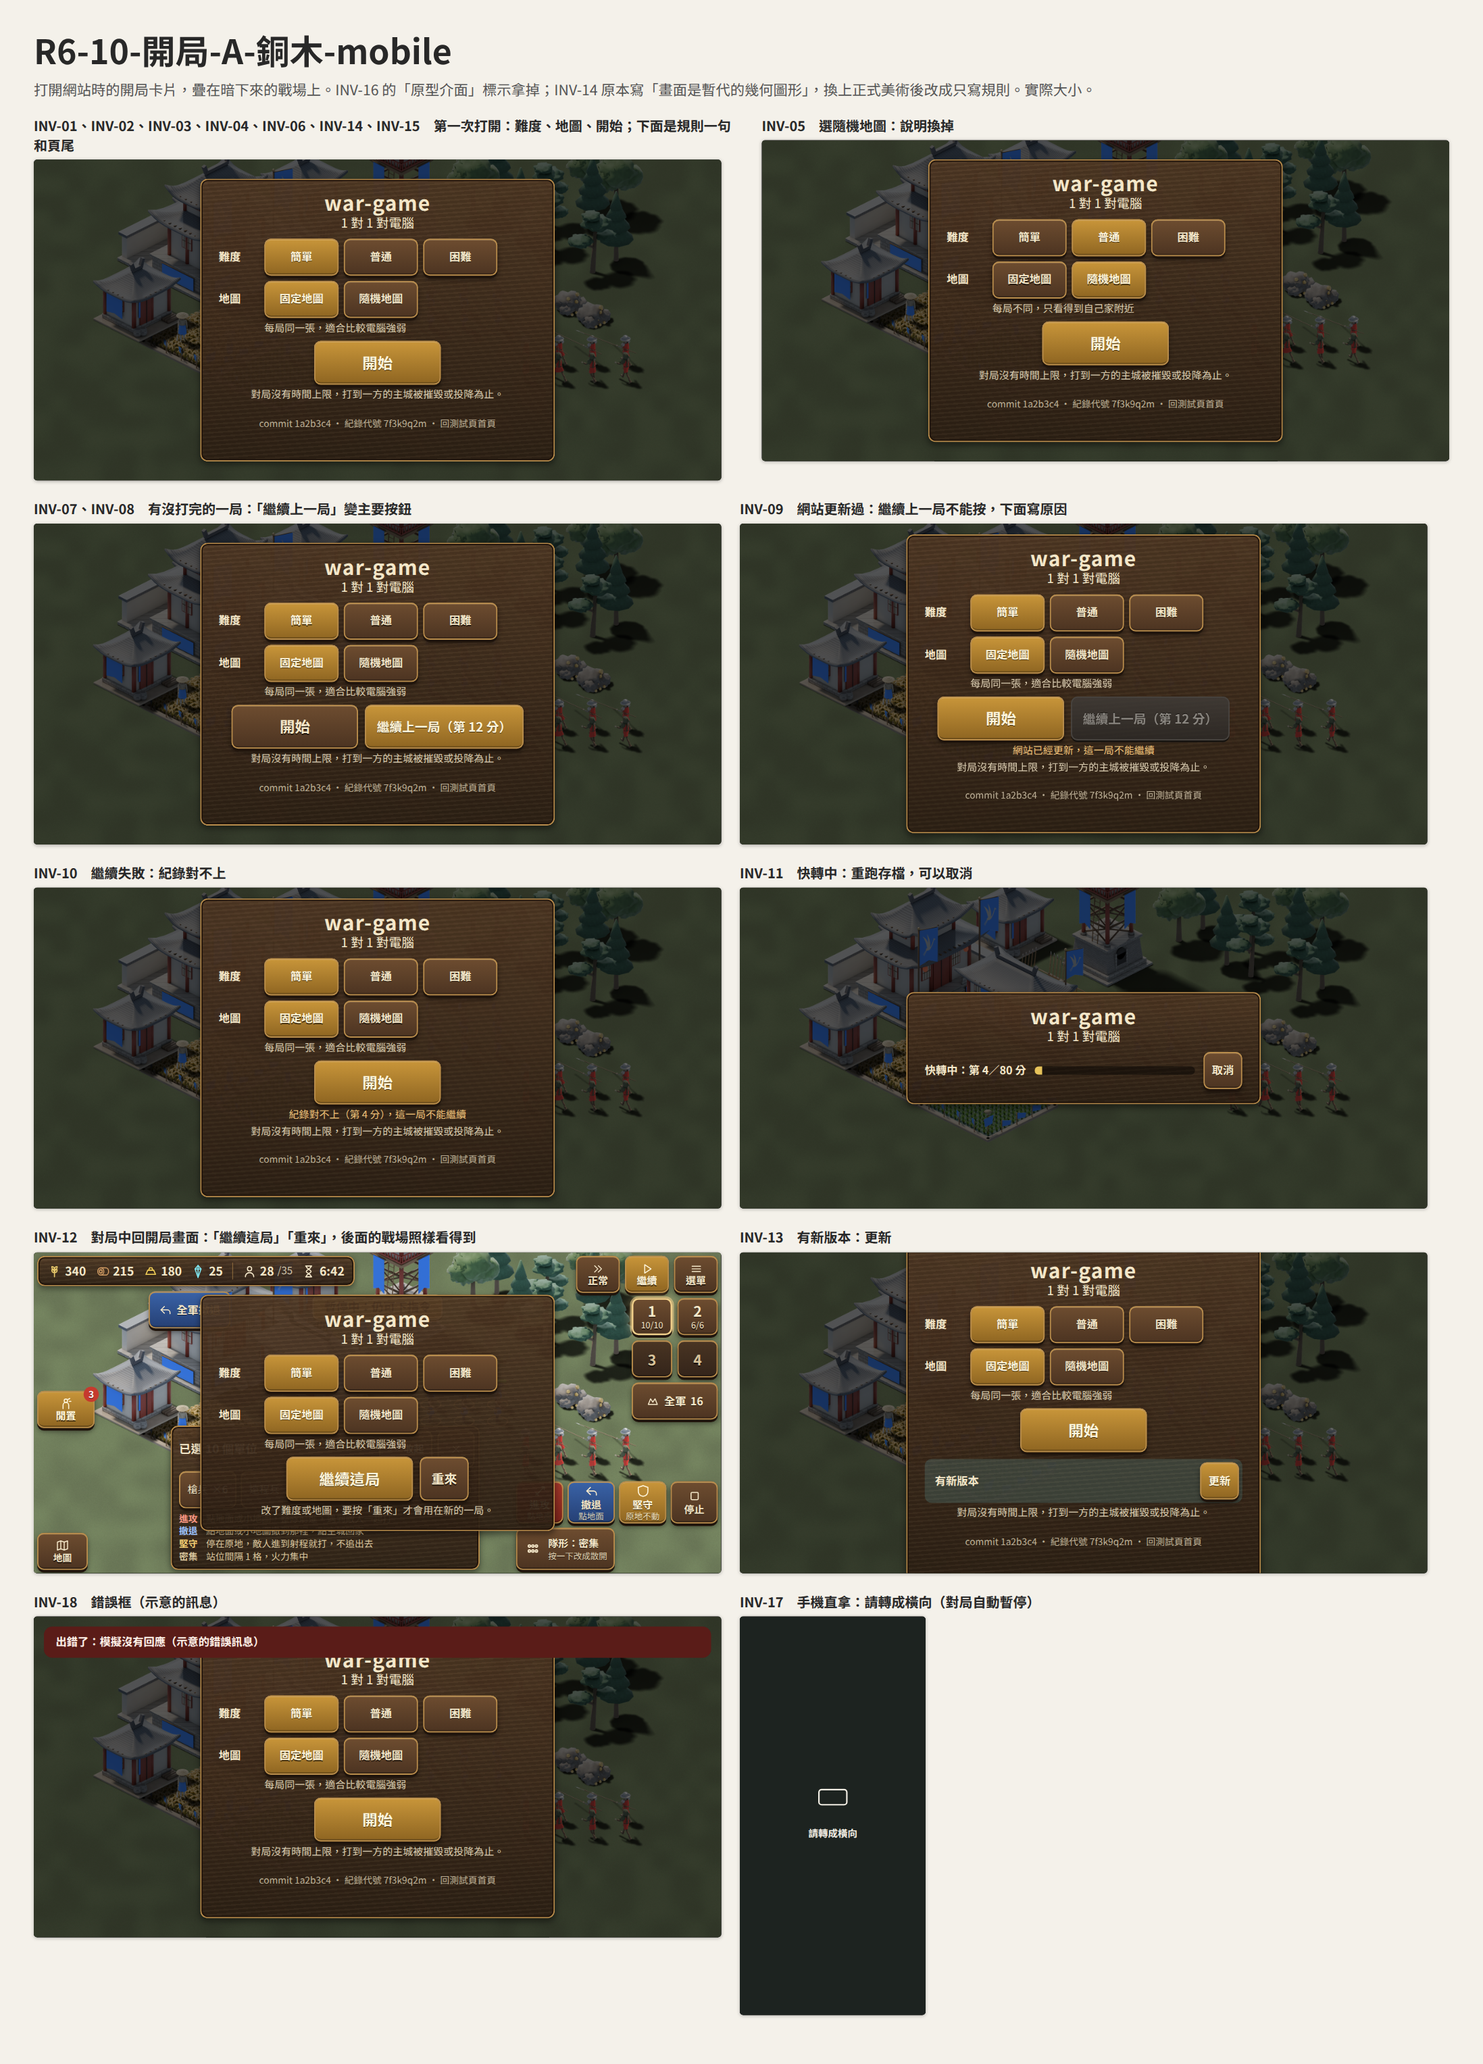
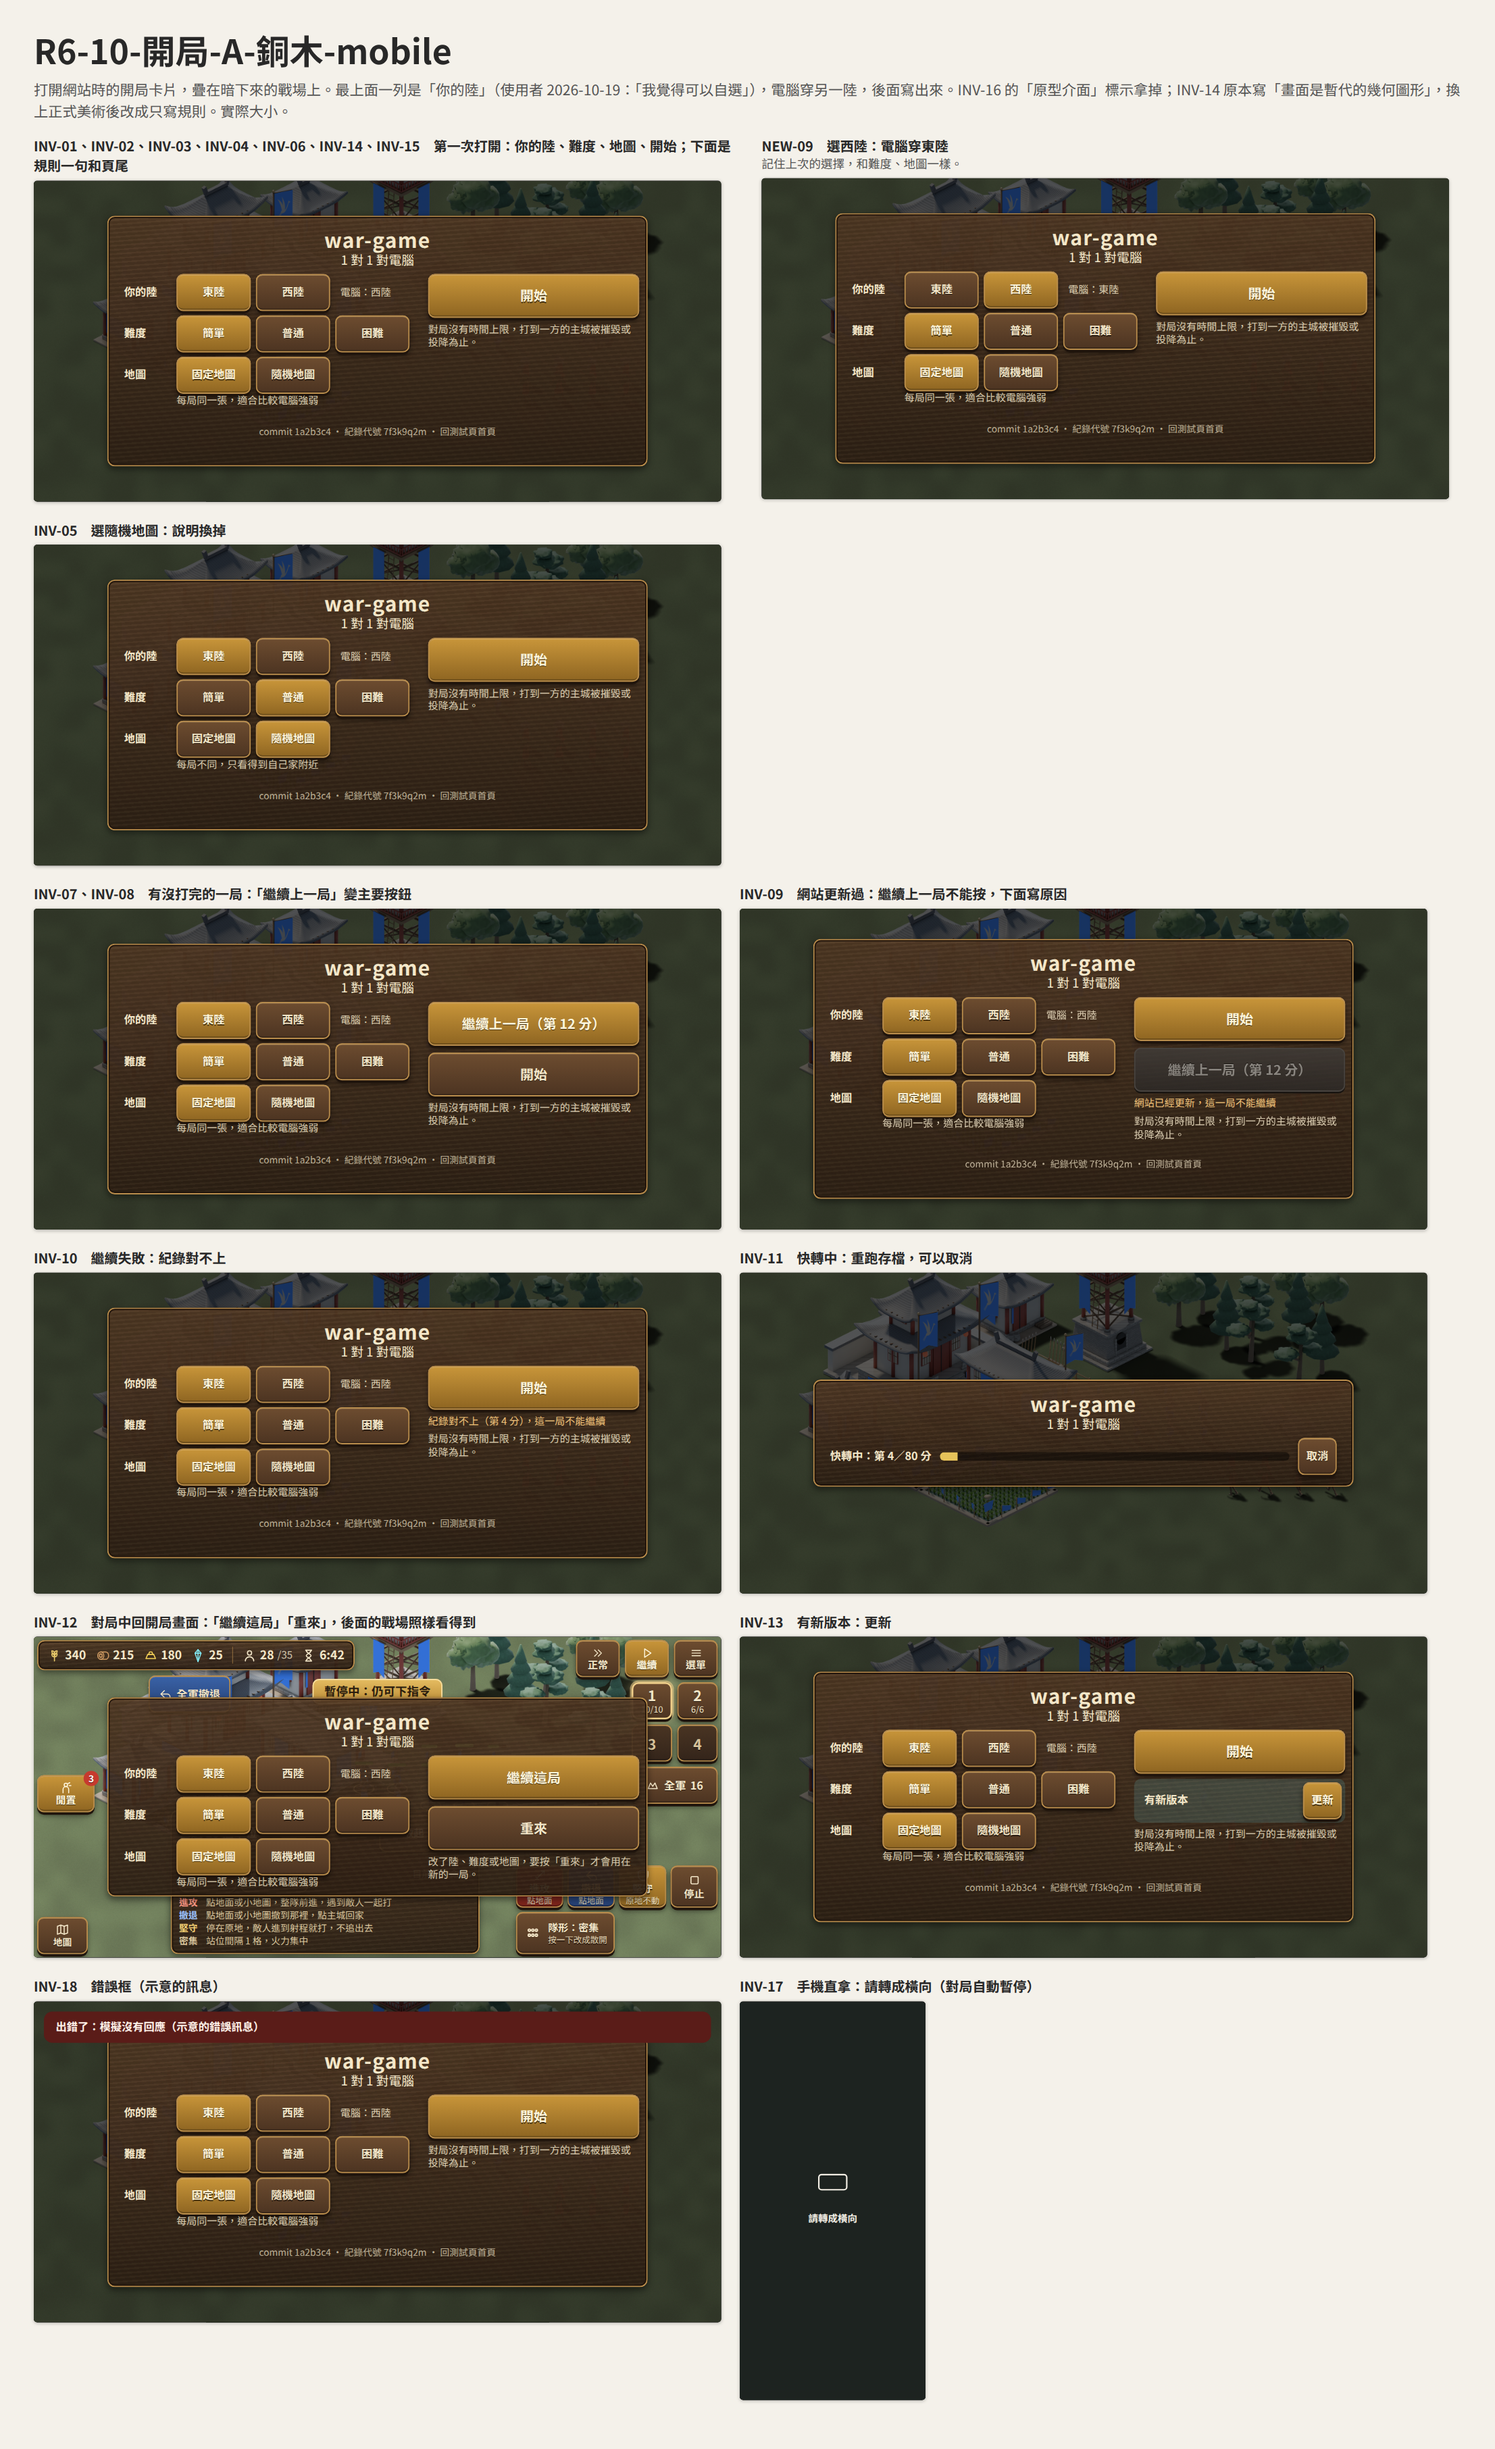
R6-10 開局加「你的陸：東陸／西陸」（使用者 2026-10-19：「我覺得可以自選」），電腦穿另一陸
- 開局卡片改成兩欄（左：你的陸、難度、地圖；右：開始、繼續上一局、說明），多一列以後所有狀態仍在 380 pt 裡
  （原本單欄加一列，有新版本、不能繼續時會超出畫面）。
- 新狀態 NEW-09（選西陸）；R6-10 A、B，R6-43，R6-40 裡的開局卡片重拍；spec、總覽跟著更新。

diff --git a/design/r6/mock/states.js b/design/r6/mock/states.js
@@ -234,22 +234,32 @@
     <tr><th>城鎮（搶／治理）</th><td>1／1</td><td>0／1</td></tr></table>` + btns(B("回開局畫面", { cls: "sec" }), B("重來", { cls: "pri" })), `result ${won ? "won" : ""}`);
   Object.assign(S, { "INV-129": { ...NOSEL, dialog: result("失敗", false) }, "INV-130": { ...NOSEL, dialog: result("勝利", true) }, "INV-131": { ...NOSEL, dialog: result("平手", false) } });
   // ----- R6-10 開局
-  const opts = (diff, map) => `<div class="opts"><span class="k">難度</span><div class="row">${["簡單", "普通", "困難"].map((d) => B(d, { cls: d === diff ? "pri" : "sec" })).join("")}</div>
+  // 你的陸 (the user 2026-10-19: 「我覺得可以自選」): the computer plays the other side
+  const opts = (diff, map, side = "東陸") => `<div class="opts"><span class="k">你的陸</span><div class="row">${["東陸", "西陸"].map((d) => B(d, { cls: d === side ? "pri" : "sec" })).join("")}<span class="aside">電腦：${side === "東陸" ? "西陸" : "東陸"}</span></div>
+    <span class="k">難度</span><div class="row">${["簡單", "普通", "困難"].map((d) => B(d, { cls: d === diff ? "pri" : "sec" })).join("")}</div>
     <span class="k">地圖</span><div class="row">${["固定地圖", "隨機地圖"].map((d) => B(d, { cls: d === map ? "pri" : "sec" })).join("")}</div></div>
     <p class="desc">${map === "固定地圖" ? "每局同一張，適合比較電腦強弱" : "每局不同，只看得到自己家附近"}</p>`;
-  const foot = `<p class="note">對局沒有時間上限，打到一方的主城被摧毀或投降為止。</p><p class="foot">commit 1a2b3c4 · 紀錄代號 7f3k9q2m · <a>回測試頁首頁</a></p>`;
+  // the start card in two columns (options left, the start buttons right), so it keeps within the 380 pt screen
+  // with the third row 你的陸 (2026-10-19)
+  const note = `<p class="note">對局沒有時間上限，打到一方的主城被摧毀或投降為止。</p>`;
+  const foot = `<p class="foot">commit 1a2b3c4 · 紀錄代號 7f3k9q2m · <a>回測試頁首頁</a></p>`;
+  const card = ({ side = "東陸", diff = "簡單", map = "固定地圖", go, extra = "", noFoot = false }) =>
+    `<div class="cols"><div class="lcol">${opts(diff, map, side)}</div><div class="rcol"><div class="go">${go}</div>${extra}${noFoot ? "" : note}</div></div>${noFoot ? "" : foot}`;
   const START = { only: ["field", "start", "portrait", "error"], field: "field-THEME-plain" };
+  const GO = B("開始", { cls: "pri big" });
   Object.assign(S, {
-    "INV-01": { ...START, start: { dim: true, html: opts("簡單", "固定地圖") + `<div class="go">${B("開始", { cls: "pri big" })}</div>` + foot } },
-    "INV-05": { ...START, start: { dim: true, html: opts("普通", "隨機地圖") + `<div class="go">${B("開始", { cls: "pri big" })}</div>` + foot } },
-    "INV-07": { ...START, start: { dim: true, html: opts("簡單", "固定地圖") + `<div class="go">${B("開始", { cls: "sec big" })}${B("繼續上一局（第 12 分）", { cls: "pri cont" })}</div>` + foot } },
-    "INV-09": { ...START, start: { dim: true, html: opts("簡單", "固定地圖") + `<div class="go">${B("開始", { cls: "pri big" })}${B("繼續上一局（第 12 分）", { cls: "sec cont", state: "disabled" })}</div><p class="why">網站已經更新，這一局不能繼續</p>` + foot } },
-    "INV-10": { ...START, start: { dim: true, html: opts("簡單", "固定地圖") + `<div class="go">${B("開始", { cls: "pri big" })}</div><p class="why">紀錄對不上（第 4 分），這一局不能繼續</p>` + foot } },
+    "INV-01": { ...START, start: { dim: true, html: card({ go: GO }) } },
+    "INV-05": { ...START, start: { dim: true, html: card({ diff: "普通", map: "隨機地圖", go: GO }) } },
+    "NEW-09": { ...START, start: { dim: true, html: card({ side: "西陸", go: GO }) } },
+    "INV-07": { ...START, start: { dim: true, html: card({ go: B("繼續上一局（第 12 分）", { cls: "pri big" }) + B("開始", { cls: "sec big" }) }) } },
+    "INV-09": { ...START, start: { dim: true, html: card({ go: GO + B("繼續上一局（第 12 分）", { cls: "sec big", state: "disabled" }), extra: `<p class="why">網站已經更新，這一局不能繼續</p>` }) } },
+    "INV-10": { ...START, start: { dim: true, html: card({ go: GO, extra: `<p class="why">紀錄對不上（第 4 分），這一局不能繼續</p>` }) } },
     "INV-11": { ...START, start: { dim: true, html: `<div class="ff"><b>快轉中：第 4／80 分</b><span class="track"><i></i></span>${B("取消", { cls: "sec" })}</div>` } },
-    "INV-12": { only: null, top: { paused: true }, start: { dim: false, html: opts("簡單", "固定地圖") + `<div class="go">${B("繼續這局", { cls: "pri big" })}${B("重來", { cls: "sec cont" })}</div><p class="note">改了難度或地圖，要按「重來」才會用在新的一局。</p>` } },
-    "INV-13": { ...START, start: { dim: true, html: opts("簡單", "固定地圖") + `<div class="go">${B("開始", { cls: "pri big" })}</div><div class="update">有新版本${B("更新", { cls: "pri" })}</div>` + foot } },
+    "INV-12": { only: null, top: { paused: true }, start: { dim: false, html: card({ go: B("繼續這局", { cls: "pri big" }) + B("重來", { cls: "sec big" }),
+      extra: `<p class="note">改了陸、難度或地圖，要按「重來」才會用在新的一局。</p>`, noFoot: true }) } },
+    "INV-13": { ...START, start: { dim: true, html: card({ go: GO, extra: `<div class="update">有新版本${B("更新", { cls: "pri" })}</div>` }) } },
     "INV-17": { only: ["portrait"], portrait: true },
-    "INV-18": { ...START, start: { dim: true, html: opts("簡單", "固定地圖") + `<div class="go">${B("開始", { cls: "pri big" })}</div>` + foot }, error: "出錯了：模擬沒有回應（示意的錯誤訊息）" },
+    "INV-18": { ...START, start: { dim: true, html: card({ go: GO }) }, error: "出錯了：模擬沒有回應（示意的錯誤訊息）" },
   });
   // ----- R6-23 戰場世界介面（遊戲畫在戰場上的，A、B 一樣）
   const WF = { hp: false, sel: null, cmds: "none", field: "field-THEME-world", left: { idle: 0, map: "closed" } };

diff --git a/design/r6/mock/boards.js b/design/r6/mock/boards.js
@@ -151,8 +151,9 @@ Object.assign(window.R6_BOARDS, {
     sub: "一局結束：勝利（金色）、失敗、平手（只有量測局 30 分鐘到才會有），加雙方的數字。勝負畫面沒有關閉鈕，只能重來或回開局畫面。實際大小。",
     rows: [[F("INV-130", ["INV-130"], "勝利"), F("INV-129", ["INV-129"], "失敗")], [F("INV-131", ["INV-131"], "平手")]] },
   "R6-10": { id: "R6-10", name: "開局",
-    sub: "打開網站時的開局卡片，疊在暗下來的戰場上。INV-16 的「原型介面」標示拿掉；INV-14 原本寫「畫面是暫代的幾何圖形」，換上正式美術後改成只寫規則。實際大小。",
-    rows: [[F("INV-01", ["INV-01", "INV-02", "INV-03", "INV-04", "INV-06", "INV-14", "INV-15"], "第一次打開：難度、地圖、開始；下面是規則一句和頁尾"), F("INV-05", ["INV-05"], "選隨機地圖：說明換掉")],
+    sub: "打開網站時的開局卡片，疊在暗下來的戰場上。最上面一列是「你的陸」（使用者 2026-10-19：「我覺得可以自選」），電腦穿另一陸，後面寫出來。INV-16 的「原型介面」標示拿掉；INV-14 原本寫「畫面是暫代的幾何圖形」，換上正式美術後改成只寫規則。實際大小。",
+    rows: [[F("INV-01", ["INV-01", "INV-02", "INV-03", "INV-04", "INV-06", "INV-14", "INV-15"], "第一次打開：你的陸、難度、地圖、開始；下面是規則一句和頁尾"), F("NEW-09", ["NEW-09"], "選西陸：電腦穿東陸", "記住上次的選擇，和難度、地圖一樣。")],
+      [F("INV-05", ["INV-05"], "選隨機地圖：說明換掉")],
       [F("INV-07", ["INV-07", "INV-08"], "有沒打完的一局：「繼續上一局」變主要按鈕"), F("INV-09", ["INV-09"], "網站更新過：繼續上一局不能按，下面寫原因")],
       [F("INV-10", ["INV-10"], "繼續失敗：紀錄對不上"), F("INV-11", ["INV-11"], "快轉中：重跑存檔，可以取消")],
       [F("INV-12", ["INV-12"], "對局中回開局畫面：「繼續這局」「重來」，後面的戰場照樣看得到"), F("INV-13", ["INV-13"], "有新版本：更新")],
@@ -194,6 +195,6 @@ Object.assign(window.R6_BOARDS, {
     sub: "攻下小鎮的對話框，A 和 B 並排。1 pt = 1.5 px。",
     rows: [[{ state: "INV-122", inv: ["INV-122"], cap: "A 銅木", theme: "a", zoom: 1.5 }, { state: "INV-122", inv: ["INV-122"], cap: "B 墨漆金線", theme: "b", zoom: 1.5 }]] },
   "R6-43": { id: "R6-43", name: "開局代表畫面", both: true,
-    sub: "開局畫面，A 和 B 並排。1 pt = 1.5 px。",
+    sub: "開局畫面（含「你的陸」），A 和 B 並排。1 pt = 1.5 px。",
     rows: [[{ state: "INV-01", inv: ["INV-01"], cap: "A 銅木", theme: "a", zoom: 1.5 }, { state: "INV-01", inv: ["INV-01"], cap: "B 墨漆金線", theme: "b", zoom: 1.5 }]] },
 });

diff --git a/design/r6/mock/ui.css b/design/r6/mock/ui.css
@@ -239,3 +239,23 @@
 /* R6-04: the square minimap of a square map, in a framed panel */
 .screen > .minimap.sqmap { width: 112px; height: 112px; padding: 4px; filter: none; }
 .screen > .minimap.sqmap img { border-radius: 4px; }
+
+/* 你的陸 (the user 2026-10-19): a third row on the start card; the card keeps within the 380 pt screen */
+.start .opts .k { white-space: nowrap; }
+.start .opts { grid-template-columns: 52px 1fr; gap: 5px 10px; }
+.start .opts .aside { align-self: center; margin-left: 6px; font-size: 12px; opacity: .85; white-space: nowrap; }
+.start .desc { margin: 0 0 2px 62px; }
+.start .lead { margin: 0 0 4px; }
+.start .go { margin: 6px 0 2px; }
+.start .note { margin: 2px 0; }
+
+/* the two-column start card */
+.screen > .start { width: 640px; padding: 12px 20px 8px; }
+.start .cols { display: grid; grid-template-columns: 1fr 250px; column-gap: 22px; align-items: start; margin-top: 6px; }
+.start .lcol .opts { margin: 0; }
+.start .rcol { display: flex; flex-direction: column; gap: 6px; }
+.start .rcol .go { flex-direction: column; align-items: stretch; margin: 0; gap: 8px; }
+.start .rcol .go .b.big { min-width: 0; width: 100%; font-size: 16px; }
+.start .rcol .note, .start .rcol .why { margin: 0; text-align: left; }
+.start .rcol .update { margin: 0; }
+.start .foot { margin-top: 6px; }

diff --git a/design/r6/spec.md b/design/r6/spec.md
@@ -47,15 +47,15 @@
 | 輪盤鈕 | INV-103 | 428 | 116 | 60 | 60 | 326 | 204 |
 | ✓ ✗（每顆） | INV-114 | 503 | 239 | 52 | 52 | 259 | 90 |
 | 對話框 | INV-120 | 177 | 44 | 460 | 291 | 177 | 44 |
-| 開局卡片 | INV-01 | 197 | 23 | 420 | 335 | 197 | 23 |
+| 開局卡片 | INV-01 | 87 | 41 | 640 | 297 | 87 | 41 |
 
 ## 3. 每張設計稿
 
 ### R6-10 開局
 
-打開網站時的開局卡片，疊在暗下來的戰場上。INV-16 的「原型介面」標示拿掉；INV-14 原本寫「畫面是暫代的幾何圖形」，換上正式美術後改成只寫規則。實際大小。
+打開網站時的開局卡片，疊在暗下來的戰場上。最上面一列是「你的陸」（使用者 2026-10-19：「我覺得可以自選」），電腦穿另一陸，後面寫出來。INV-16 的「原型介面」標示拿掉；INV-14 原本寫「畫面是暫代的幾何圖形」，換上正式美術後改成只寫規則。實際大小。
 
-涵蓋：INV-01、INV-02、INV-03、INV-04、INV-06、INV-14、INV-15、INV-05、INV-07、INV-08、INV-09、INV-10、INV-11、INV-12、INV-13、INV-18、INV-17
+涵蓋：INV-01、INV-02、INV-03、INV-04、INV-06、INV-14、INV-15、NEW-09、INV-05、INV-07、INV-08、INV-09、INV-10、INV-11、INV-12、INV-13、INV-18、INV-17
 
 ### R6-11 戰場上方
 
@@ -206,7 +206,7 @@ D-087 拿掉重設鈕。GDD 第 10 節「重設按鈕」原本做的事，改由
 
 ### R6-43 開局代表畫面
 
-開局畫面，A 和 B 並排。1 pt = 1.5 px。
+開局畫面（含「你的陸」），A 和 B 並排。1 pt = 1.5 px。
 
 涵蓋：INV-01
 
